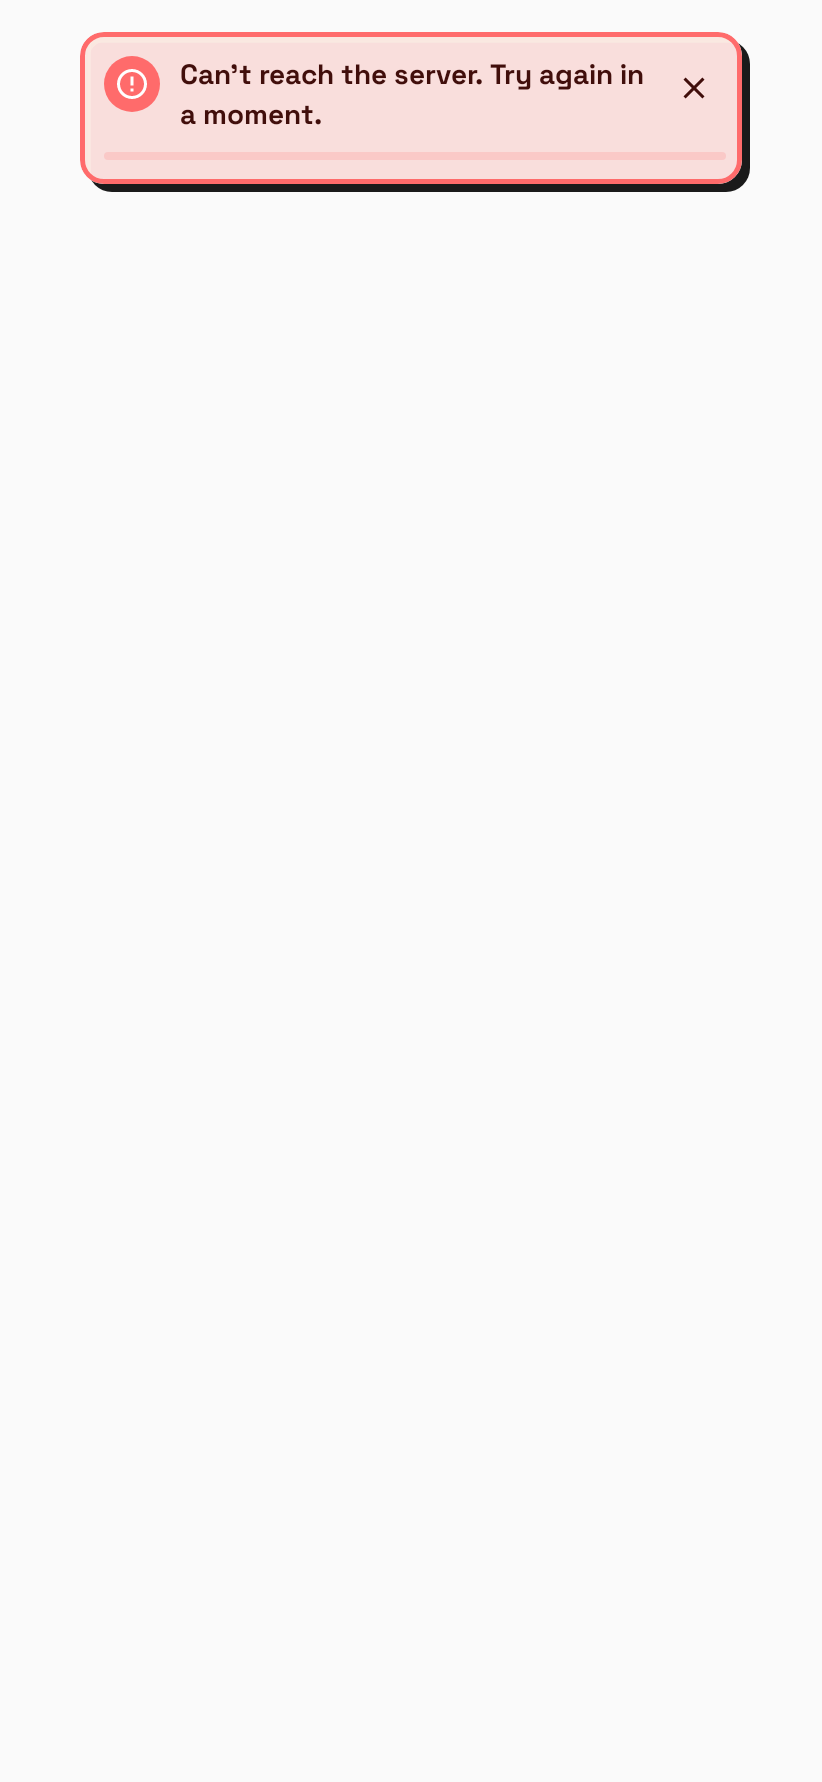
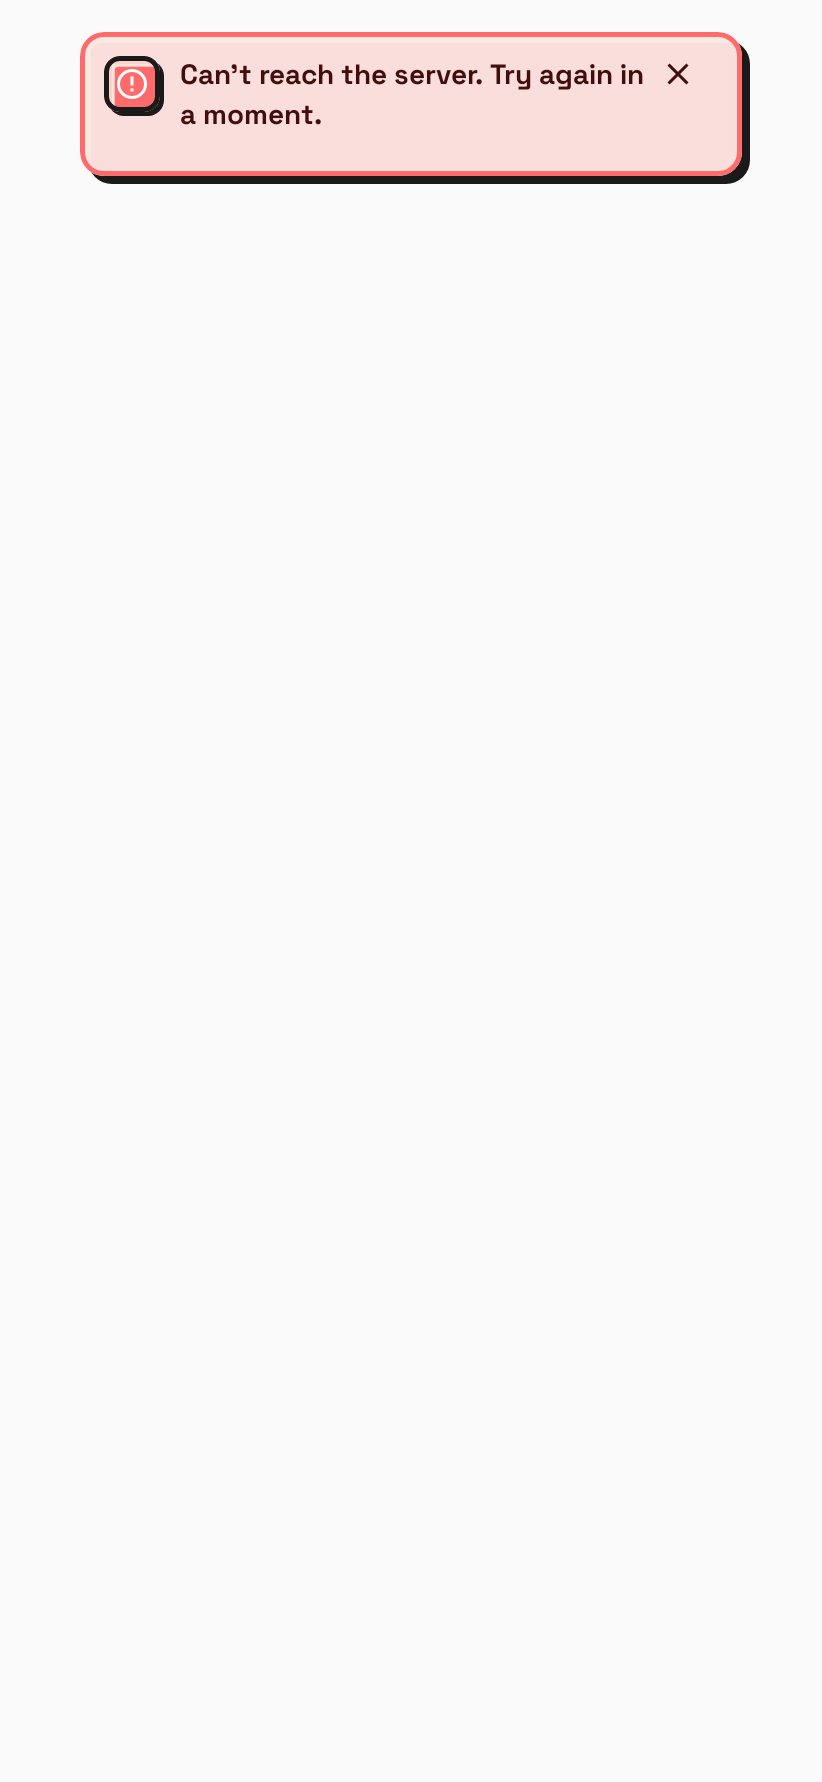
fix: dress the error snackbar in the app's own clothes
Three things the first version got wrong: the danger icon was a circle, the timer drew a line
across the card, and the close button hovered above the message instead of sitting on its first
line.

The icon is now the same shape as every other icon button in the app - a square with a thick
border and a hard shadow, filled with the error colour, the size of the delete sticker button.
The line is gone; the snackbar still dismisses itself, it just does not draw a bar to say so.
The close button floats over the top right corner, so its 48 dp touch target does not make the
card taller than the message needs, and its glyph sits on the first line of the message.

Changed region(s): [[0.0912, 0.0309, 0.9124, 0.1235], [0.8212, 0.0309, 0.8516, 0.0617]]

diff --git a/composeApp/src/commonMain/kotlin/presentation/components/NeubrutalSnackbar.kt b/composeApp/src/commonMain/kotlin/presentation/components/NeubrutalSnackbar.kt
@@ -13,7 +13,6 @@ import androidx.compose.foundation.layout.height
 import androidx.compose.foundation.layout.padding
 import androidx.compose.foundation.layout.size
 import androidx.compose.foundation.layout.width
-import androidx.compose.foundation.shape.CircleShape
 import androidx.compose.foundation.shape.RoundedCornerShape
 import androidx.compose.material.icons.Icons
 import androidx.compose.material.icons.filled.Close
@@ -30,9 +29,6 @@ import androidx.compose.runtime.remember
 import androidx.compose.ui.Alignment
 import androidx.compose.ui.Modifier
 import androidx.compose.ui.draw.clip
-import androidx.compose.ui.draw.drawBehind
-import androidx.compose.ui.geometry.Size
-import androidx.compose.ui.graphics.Color
 import androidx.compose.ui.semantics.LiveRegionMode
 import androidx.compose.ui.semantics.liveRegion
 import androidx.compose.ui.semantics.semantics
@@ -40,6 +36,8 @@ import androidx.compose.ui.text.font.FontWeight
 import androidx.compose.ui.unit.dp
 import presentation.theme.NeubrutalCardRadius
 import presentation.theme.NeubrutalShadowOffset
+import presentation.theme.NeubrutalSmallRadius
+import presentation.theme.NeubrutalSmallShadowOffset
 import presentation.theme.neubrutalBorderColor
 import presentation.theme.neubrutalBorderWithGloss
 import presentation.theme.neubrutalCardSurface
@@ -60,9 +58,6 @@ private const val DEFAULT_AUTO_DISMISS_MS = 10_000L
  */
 private const val ERROR_AUTO_DISMISS_MS = 15_000L
 
-/** The height of the draining timer line along the bottom of the snackbar. */
-private val TimerBarHeight = 4.dp
-
 /**
  * The app's snackbar.
  *
@@ -75,8 +70,7 @@ private val TimerBarHeight = 4.dp
  * read as a note, and a note gets ignored. So a failure carries the error colour, a solid icon in
  * a filled circle, and a bold message, and it says so to a screen reader as well.
  *
- * The snackbar dismisses itself after [autoDismissMs] and shows a draining line while it waits,
- * so the user can see how long they have. The close button ends it right away.
+ * The snackbar dismisses itself after [autoDismissMs], and the close button ends it right away.
  */
 @Composable
 fun NeubrutalSnackbarHost(
@@ -142,7 +136,6 @@ fun NeubrutalSnackbarContent(
     val surface = if (isError) MaterialTheme.colorScheme.errorContainer else neubrutalCardSurface()
     val content = if (isError) MaterialTheme.colorScheme.onErrorContainer else MaterialTheme.colorScheme.onSurface
     val border = if (isError) MaterialTheme.colorScheme.error else neubrutalBorderColor()
-    val timerColor = if (isError) MaterialTheme.colorScheme.error else MaterialTheme.colorScheme.primary
 
     // The timer is one animation: it drains the line and, when it is done, the snackbar goes
     // away. Reading the value in the draw phase keeps the frame work out of composition.
@@ -175,13 +168,27 @@ fun NeubrutalSnackbarContent(
             )
             .padding(start = 12.dp, end = 8.dp, top = 12.dp, bottom = 12.dp)
     ) {
+        Box {
         Row(verticalAlignment = Alignment.Top) {
             if (isError) {
+                // The same shape as every other icon button in the app: a square with a thick
+                // border and a hard shadow, filled with the error colour.
                 Box(
                     modifier = Modifier
                         .size(28.dp)
-                        .clip(CircleShape)
-                        .background(MaterialTheme.colorScheme.error),
+                        .neubrutalShadow(
+                            offsetX = NeubrutalSmallShadowOffset,
+                            offsetY = NeubrutalSmallShadowOffset,
+                            cornerRadius = NeubrutalSmallRadius,
+                            color = neubrutalShadowColor()
+                        )
+                        .clip(RoundedCornerShape(NeubrutalSmallRadius))
+                        .background(MaterialTheme.colorScheme.error)
+                        .neubrutalBorderWithGloss(
+                            color = neubrutalBorderColor(),
+                            cornerRadius = NeubrutalSmallRadius,
+                            highlightColor = neubrutalGlossyHighlightColor(onFilledSurface = true)
+                        ),
                     contentAlignment = Alignment.Center
                 ) {
                     Icon(
@@ -194,7 +201,13 @@ fun NeubrutalSnackbarContent(
                 Spacer(modifier = Modifier.width(10.dp))
             }
 
-            Column(modifier = Modifier.weight(1f)) {
+            Column(
+                modifier = Modifier
+                    .weight(1f)
+                    // The close button floats over the top right corner, so the message keeps
+                    // clear of it.
+                    .padding(end = 40.dp)
+            ) {
                 Text(
                     text = message,
                     style = MaterialTheme.typography.bodyMedium,
@@ -221,54 +234,25 @@ fun NeubrutalSnackbarContent(
                 }
             }
 
-            Spacer(modifier = Modifier.width(8.dp))
-
-            Box(
-                modifier = Modifier
-                    .size(32.dp)
-                    .neubrutalPressable(pressScale = 0.88f, onClick = onDismiss),
-                contentAlignment = Alignment.Center
-            ) {
-                Icon(
-                    imageVector = Icons.Default.Close,
-                    contentDescription = null,
-                    tint = content,
-                    modifier = Modifier.size(18.dp)
-                )
-            }
         }
 
-        Spacer(modifier = Modifier.height(10.dp))
-
-        // The draining line: the time the user has left, made visible.
+        // The close button floats over the top right corner. Its 48 dp touch target stays out
+        // of the flow, so the card is only as tall as the message needs, and the glyph sits at
+        // the top of it, on the first line of the message.
         Box(
             modifier = Modifier
-                .fillMaxWidth()
-                .height(TimerBarHeight)
-                .clip(RoundedCornerShape(TimerBarHeight))
-                .background(timerColor.copy(alpha = 0.18f))
+                .align(Alignment.TopEnd)
+                .size(48.dp)
+                .neubrutalPressable(pressScale = 0.88f, onClick = onDismiss),
+            contentAlignment = Alignment.TopCenter
         ) {
-            Box(
-                modifier = Modifier
-                    .fillMaxWidth()
-                    .height(TimerBarHeight)
-                    .drawTimerFill(timerColor, timer)
+            Icon(
+                imageVector = Icons.Default.Close,
+                contentDescription = null,
+                tint = content,
+                modifier = Modifier.size(18.dp)
             )
+        }
         }
     }
 }
-
-/**
- * Fills the timer line by the fraction that is left.
- *
- * The animated value is read in the draw phase, so the line drains without a recomposition on
- * every frame.
- */
-private fun Modifier.drawTimerFill(color: Color, timer: Animatable<Float, *>) = drawBehind {
-        val fraction = timer.value.coerceIn(0f, 1f)
-        if (fraction <= 0f) return@drawBehind
-        drawRect(
-            color = color,
-            size = Size(width = size.width * fraction, height = size.height)
-        )
-    }
